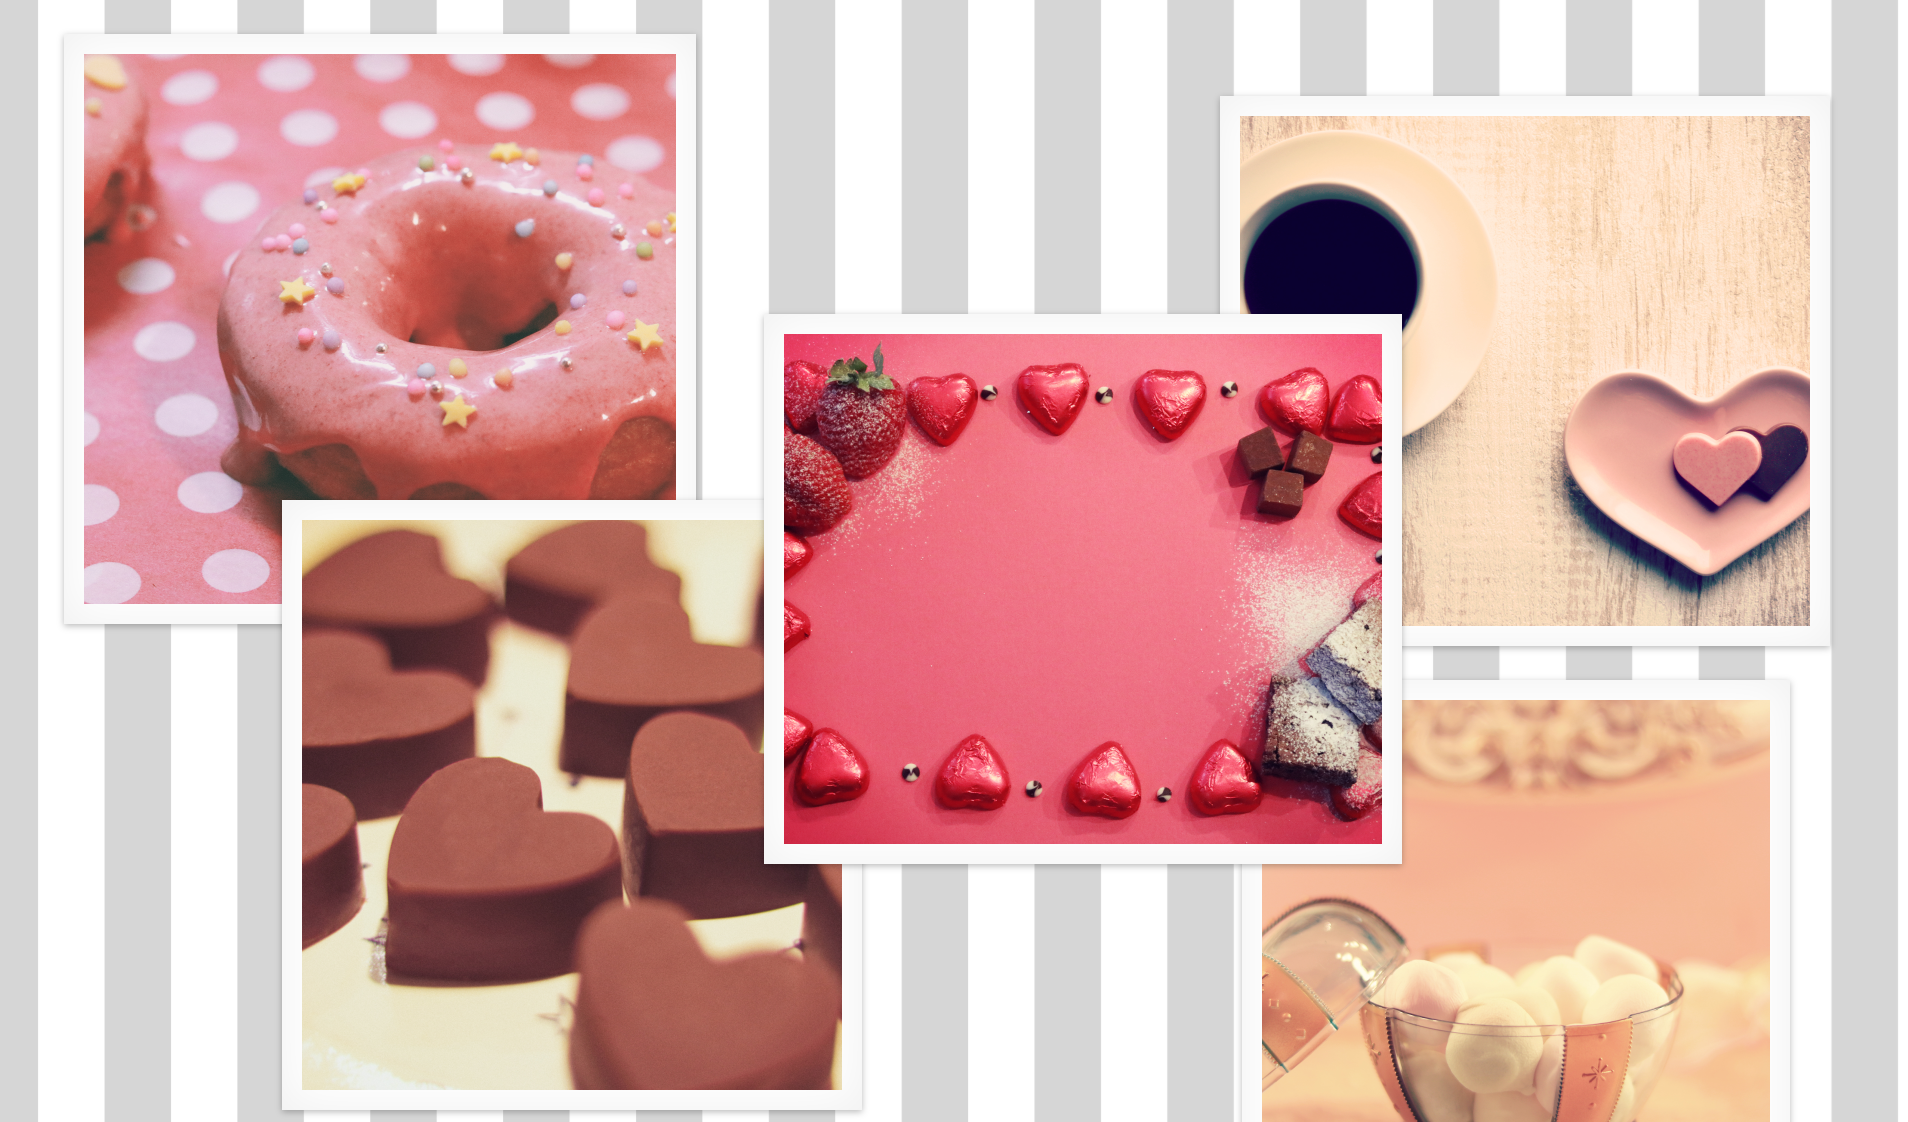
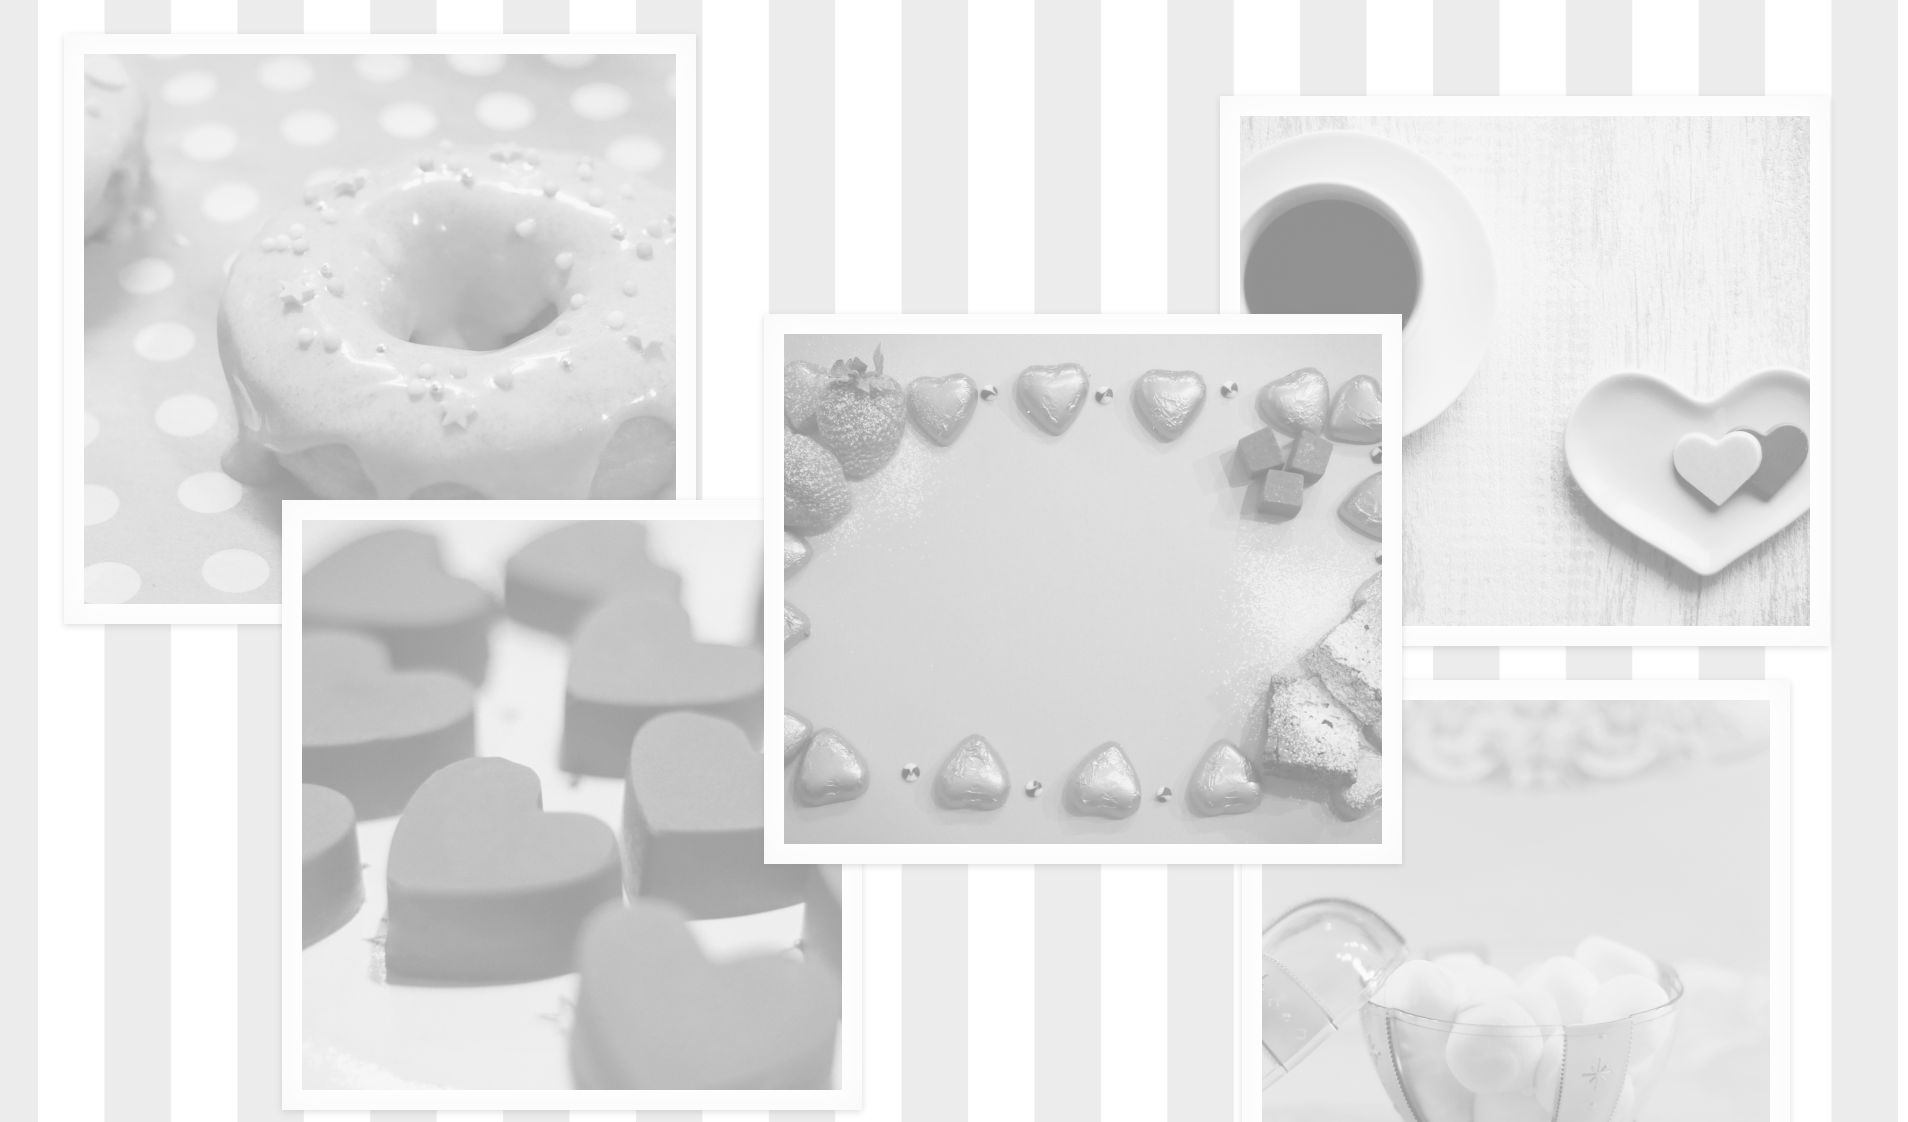
Downsize before submit

diff --git a/src/helpers/bff.js b/src/helpers/bff.js
@@ -5,10 +5,12 @@ import path from 'path';
 import fs from 'fs-extra';
 import isVideo from 'is-video';
 import _ from 'lodash';
+import im from 'imagemagick';
 
 import uris from '../uris';
 import config from '../config';
 
+const FILE_SIZE_LIMIT = 10000000;
 const upload = multer({ dest: './tmp/' });
 const apiBase = normalize(`${config.api.host}:${config.api.port}`);
 
@@ -107,8 +109,17 @@ export default function (app) {
     const paths = [];
     const promises = req.files.files.map(file => new Promise((resolve) => {
       const filepath = `${file.path}${path.extname(file.originalname)}`;
-      fs.move(file.path, filepath, () => resolve());
-      paths.push(path.parse(filepath).base);
+
+      if (FILE_SIZE_LIMIT < file.size && !isVideo(file.originalname)) {
+        im.convert([file.path, '-define', 'jpeg:extent=10MB', filepath], (err, stdout) => {
+          console.log(err, stdout);
+          paths.push(path.parse(filepath).base);
+          resolve();
+        });
+      } else {
+        fs.move(file.path, filepath, () => resolve());
+        paths.push(path.parse(filepath).base);
+      }
     }));
     Promise.all(promises).then(
       () => res.json({
@@ -162,7 +173,7 @@ export default function (app) {
                       resolve(body);
                     }, {
                       resource_type: isVideo(body.url) ? 'video' : 'auto',
-                      format: isVideo(body.url) ? undefined : 'png',
+                      format: isVideo(body.url) ? undefined : 'jpg',
                       tags: [body.board]
                     });
                   })
@@ -281,7 +292,7 @@ export default function (app) {
               .then((boards) => {
                 const promises = boards.map(
                   item =>
-                    fetch(`${apiBase}/apis/board/images?board=${item.id}&offset=0&limit=1&url=*.png`, {
+                    fetch(`${apiBase}/apis/board/images?board=${item.id}&offset=0&limit=1&url=*.jpg`, {
                       headers
                     })
                       .then(res => res.json())

diff --git a/src/containers/PrivacyPolicy.jsx b/src/containers/PrivacyPolicy.jsx
@@ -2,14 +2,14 @@ import React, { PropTypes } from 'react';
 import { stringify } from 'koiki';
 import uris from '../uris';
 import Header from '../components/Header';
-import Background from '../components/Background';
+import Cover from '../components/Cover';
 
 const styles = require('../css/privacypolicy.less');
 
 const PrivacyPolicy = (props, { i18n, lang }) =>
   <div>
     <Header homeURL={stringify(uris.pages.root, { lang })} />
-    <Background image={require('../images/bg.png')} >
+    <Cover>
       <div className={styles.policy} >
         <header className={styles.header} >{i18n.privacy_policy}</header>
         <section className={styles.section} >
@@ -30,7 +30,7 @@ const PrivacyPolicy = (props, { i18n, lang }) =>
           </section>
         </section>
       </div>
-    </Background>
+    </Cover>
   </div>;
 
 PrivacyPolicy.contextTypes = {

diff --git a/src/css/signature.less b/src/css/signature.less
@@ -11,24 +11,27 @@
 .lead{
 	position: absolute;
 	color: @hai;
-	font-size: 2.5em;
 	margin-top: 0;
 	transition-property: font-size, top;
   transition-duration: 0.4s;
 	top: 35%;
 	width: 80%;
 	text-align: center;
+  left: 50%;
+  transform: translateX(-50%);
 }
 
 .starting .lead {
-  color: @gofun;
+  font-size: 2.5em;
+  color: @sumi;
 }
 
 .control {
 	position: absolute;
 	top: 50%;
 	width: 80%;
-	transform: translateY(0%);
+  left: 50%;
+	transform: translateY(0%) translateX(-50%);
 	flex-wrap: wrap;
 	align-items: stretch;
 	display: flex;
@@ -78,11 +81,9 @@
 
 @keyframes move-to-top {
   0% {
-    font-size: 2.5em;
     top: 35%;
   }
   100% {
-    font-size: 2em;
     top: 10%;
   }
 }

diff --git a/src/css/cover.less b/src/css/cover.less
@@ -4,7 +4,7 @@
 	position: fixed;
 	overflow: scroll;
 	width: 100vw;
-  height: 700px;
+  height: 100vh;
 	background: repeating-linear-gradient(
     to right,
     @gofun,
@@ -14,12 +14,13 @@
   );
 	transition-property: filter;
   transition-duration: 0.4s;
+	-webkit-overflow-scrolling: touch;
 }
 
 .image {
 	background-position: center;
-	filter: contrast(0.2) sepia(100%) saturate(2) hue-rotate(190deg) brightness(100%);
 	background-size: cover;
+	height: 560px;
 }
 
 .blur {
@@ -28,7 +29,6 @@
 
 .wrap {
 	width: 100%;
-	height: 560px;
 	overflow: hidden;
 	position: relative;
 }

diff --git a/src/css/hero.less b/src/css/hero.less
@@ -43,15 +43,3 @@
     text-align: right;
   }
 }
-
-.blue .background{
-  filter: contrast(0.2) sepia(100%) saturate(2) hue-rotate(190deg) brightness(140%);
-}
-
-.pink .background{
-  filter: contrast(0.4) sepia(100%) saturate(2) hue-rotate(280deg) brightness(140%);
-}
-
-.gray .background{
-  filter: contrast(0.3) grayscale(100%) saturate(2) brightness(160%);
-}

diff --git a/src/css/background.less b/src/css/background.less
@@ -14,11 +14,11 @@
   );
 	transition-property: filter;
   transition-duration: 0.4s;
+	-webkit-overflow-scrolling: touch;
 }
 
 .image {
 	background-position: center;
-	filter: contrast(0.2) sepia(100%) saturate(2) hue-rotate(190deg) brightness(100%);
 	background-size: cover;
 }
 

diff --git a/src/components/Cover.jsx b/src/components/Cover.jsx
@@ -1,6 +1,6 @@
 import React, { PropTypes } from 'react';
 
-const styles = require('../css/background.less');
+const styles = require('../css/cover.less');
 
 const Cover = ({ image, video, children }) =>
   <div

diff --git a/src/css/privacypolicy.less b/src/css/privacypolicy.less
@@ -6,7 +6,7 @@
 
 .header,
 .section{
-  color: @gofun;
+  color: @sumi;
 }
 
 .header{
